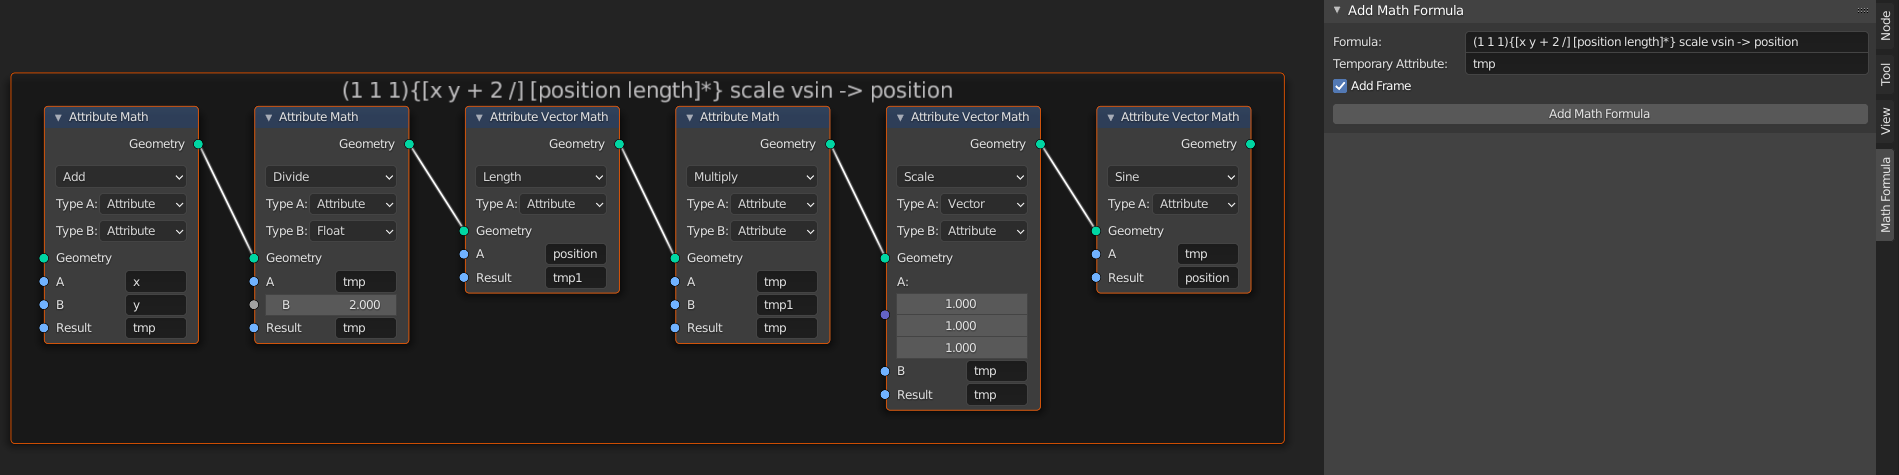
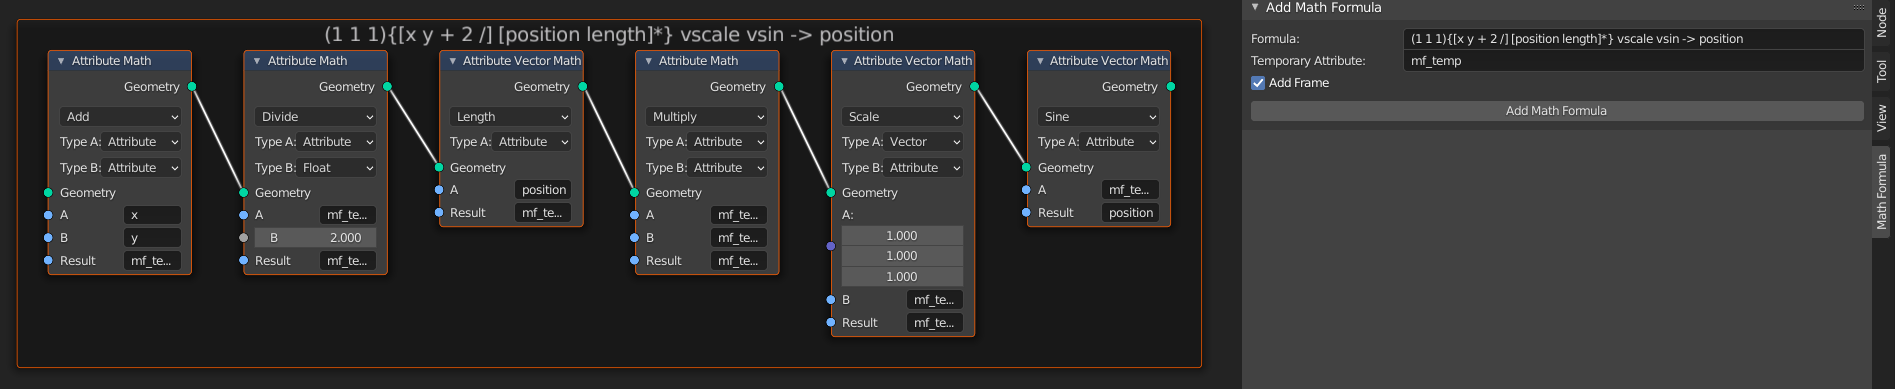
Fix: Bug with single element tuples

Changed region(s): [[0.0, 0.0, 1.0, 1.0], [0.9652, 0.4936, 1.0, 0.617]]

diff --git a/math_formula.py b/math_formula.py
@@ -32,12 +32,12 @@ math_operations = [
     (('acos', 'arccos', 'arccosine'), 'ARCCOSINE', 1),
     (('atan', 'arctan', 'arctangent'), 'ARCTANGENT', 1),
     (('atan2', 'arctan2'), 'ARCTAN2', 2),
-    (('sinh'), 'SINH', 1),
-    (('cosh'), 'COSH', 1),
-    (('tanh'), 'TANH', 1),
+    (('sinh',), 'SINH', 1),
+    (('cosh',), 'COSH', 1),
+    (('tanh',), 'TANH', 1),
     (('^', 'pow', 'power'), 'POWER', 2),
     (('log', 'logarithm'), 'LOGARITHM', 2),
-    (('sqrt'), 'SQRT', 1),
+    (('sqrt',), 'SQRT', 1),
     (('1/sqrt', 'inv_sqrt'), 'INVERSE_SQRT', 1),
     (('e^x', 'e^', 'exp'), 'EXPONENT', 1),
     (('min', 'minimum'), 'MINIMUM', 2),
@@ -48,15 +48,15 @@ math_operations = [
     (('==', 'compare'), 'COMPARE', 3),
     (('smin', 'smooth_min', 'smooth_minimum'), 'SMOOTH_MIN', 3),
     (('smax', 'smooth_max', 'smooth_maximum'), 'SMOOTH_MAX', 3),
-    (('fract'), 'FRACT', 1),
+    (('fract',), 'FRACT', 1),
     (('%', 'mod'), 'MODULO', 2),
-    (('snap'), 'SNAP', 2),
-    (('wrap'), 'WRAP', 3),
+    (('snap',), 'SNAP', 2),
+    (('wrap',), 'WRAP', 3),
     (('pingpong', 'ping_pong'), 'PINGPONG', 2),
     (('abs', 'absolute'), 'ABSOLUTE', 1),
-    (('round'), 'ROUND', 1),
-    (('floor'), 'FLOOR', 1),
-    (('ceil'), 'CEIL', 1),
+    (('round',), 'ROUND', 1),
+    (('floor',), 'FLOOR', 1),
+    (('ceil',), 'CEIL', 1),
     (('trunc', 'truncate'), 'TRUNCATE', 1),
     (('rad', 'to_rad', 'to_radians', 'radians'), 'RADIANS', 1),
     (('deg', 'to_deg', 'to_degrees', 'degrees'), 'DEGREES', 1)
@@ -67,26 +67,27 @@ vector_math_operations = [
     (('v-', 'vsub'), 'SUBTRACT', 2),
     (('v*', 'vmult'), 'MULTIPLY', 2),
     (('v/', 'vdiv'), 'DIVIDE', 2),
-    (('cross', 'cross_product'), 'CROSS_PRODUCT', 2),
-    (('project'), 'PROJECT', 2),
-    (('reflect'), 'REFLECT', 2),
-    (('vsnap'), 'SNAP', 2),
+    (('vcross', 'cross', 'cross_product'), 'CROSS_PRODUCT', 2),
+    (('vproject', 'project'), 'PROJECT', 2),
+    (('vreflect', 'reflect'), 'REFLECT', 2),
+    (('vsnap',), 'SNAP', 2),
     (('v%', 'mod'), 'MODULO', 2),
     (('vmin', 'vminimum'), 'MINIMUM', 2),
     (('vmax', 'vmaximum'), 'MAXIMUM', 2),
-    (('dot', 'dot_product'), 'DOT_PRODUCT', 2),
-    (('dist', 'distance'), 'DISTANCE', 2),
-    (('length'), 'LENGTH', 1),
-    (('scale'), 'SCALE', 2),
-    (('normalize'), 'NORMALIZE', 1),
-    (('vfloor'), 'FLOOR', 1),
-    (('vceil'), 'CEIL', 1),
-    (('vfract'), 'FRACT', 1),
+    (('vdot', 'dot', 'dot_product'), 'DOT_PRODUCT', 2),
+    (('vdist', 'dist', 'distance'), 'DISTANCE', 2),
+    (('vlength', 'length',), 'LENGTH', 1),
+    # Don't use 'scale' because it's a common attribute name
+    (('vscale',), 'SCALE', 2),
+    (('vnormalize', 'normalize',), 'NORMALIZE', 1),
+    (('vfloor',), 'FLOOR', 1),
+    (('vceil',), 'CEIL', 1),
+    (('vfract',), 'FRACT', 1),
     (('vabs', 'vabsolute'), 'ABSOLUTE', 1),
     (('vsin', 'vsine'), 'SINE', 1),
     (('vcos', 'vcosine'), 'COSINE', 1),
     (('vtan', 'vtangent'), 'TANGENT', 1),
-    (('vwrap'), 'WRAP', 3),
+    (('vwrap',), 'WRAP', 3),
 ]
 
 

diff --git a/README.md b/README.md
@@ -22,14 +22,14 @@ Current features:
 ## Math Formula
 - For geometry nodes only!
 - Type in a formula in reverse polish notation, and then automatically add in attribute math nodes
-- You can also open a menu with `SHIFT + F`, and type there. Change the shortcut in the preferences.
-- If the operation is a vector math operation that is also a math operation, prefix it with "v" (example `v+`, `vadd`)
+- You can also open a menu with `SHIFT + F`, and type there. Change the shortcut in the addon preferences.
+- If the operation is a vector math operation that is also a math operation, prefix it with "v" (example `v+`, `vadd`). One exception is `scale`, which you have to call using `vscale`, because `scale` is an internal attribute that is already used.
 - Use `{}[]` to visually group things together (these are ignored)
 - Make a vector using `()` (ex: `(2 4 5.7)`)
 - You can set the name of the resulting attribute by adding `-> attribute_name` at the end.
 - Anything that is not a function is seen as an argument
 ### Example formula
-```(1 1 1){[x y + 2 /] [position length]*} scale vsin -> position```
+```(1 1 1){[x y + 2 /] [position length]*} vscale vsin -> position```
 
 ![Formula Result](images/math_formula.png)
 
